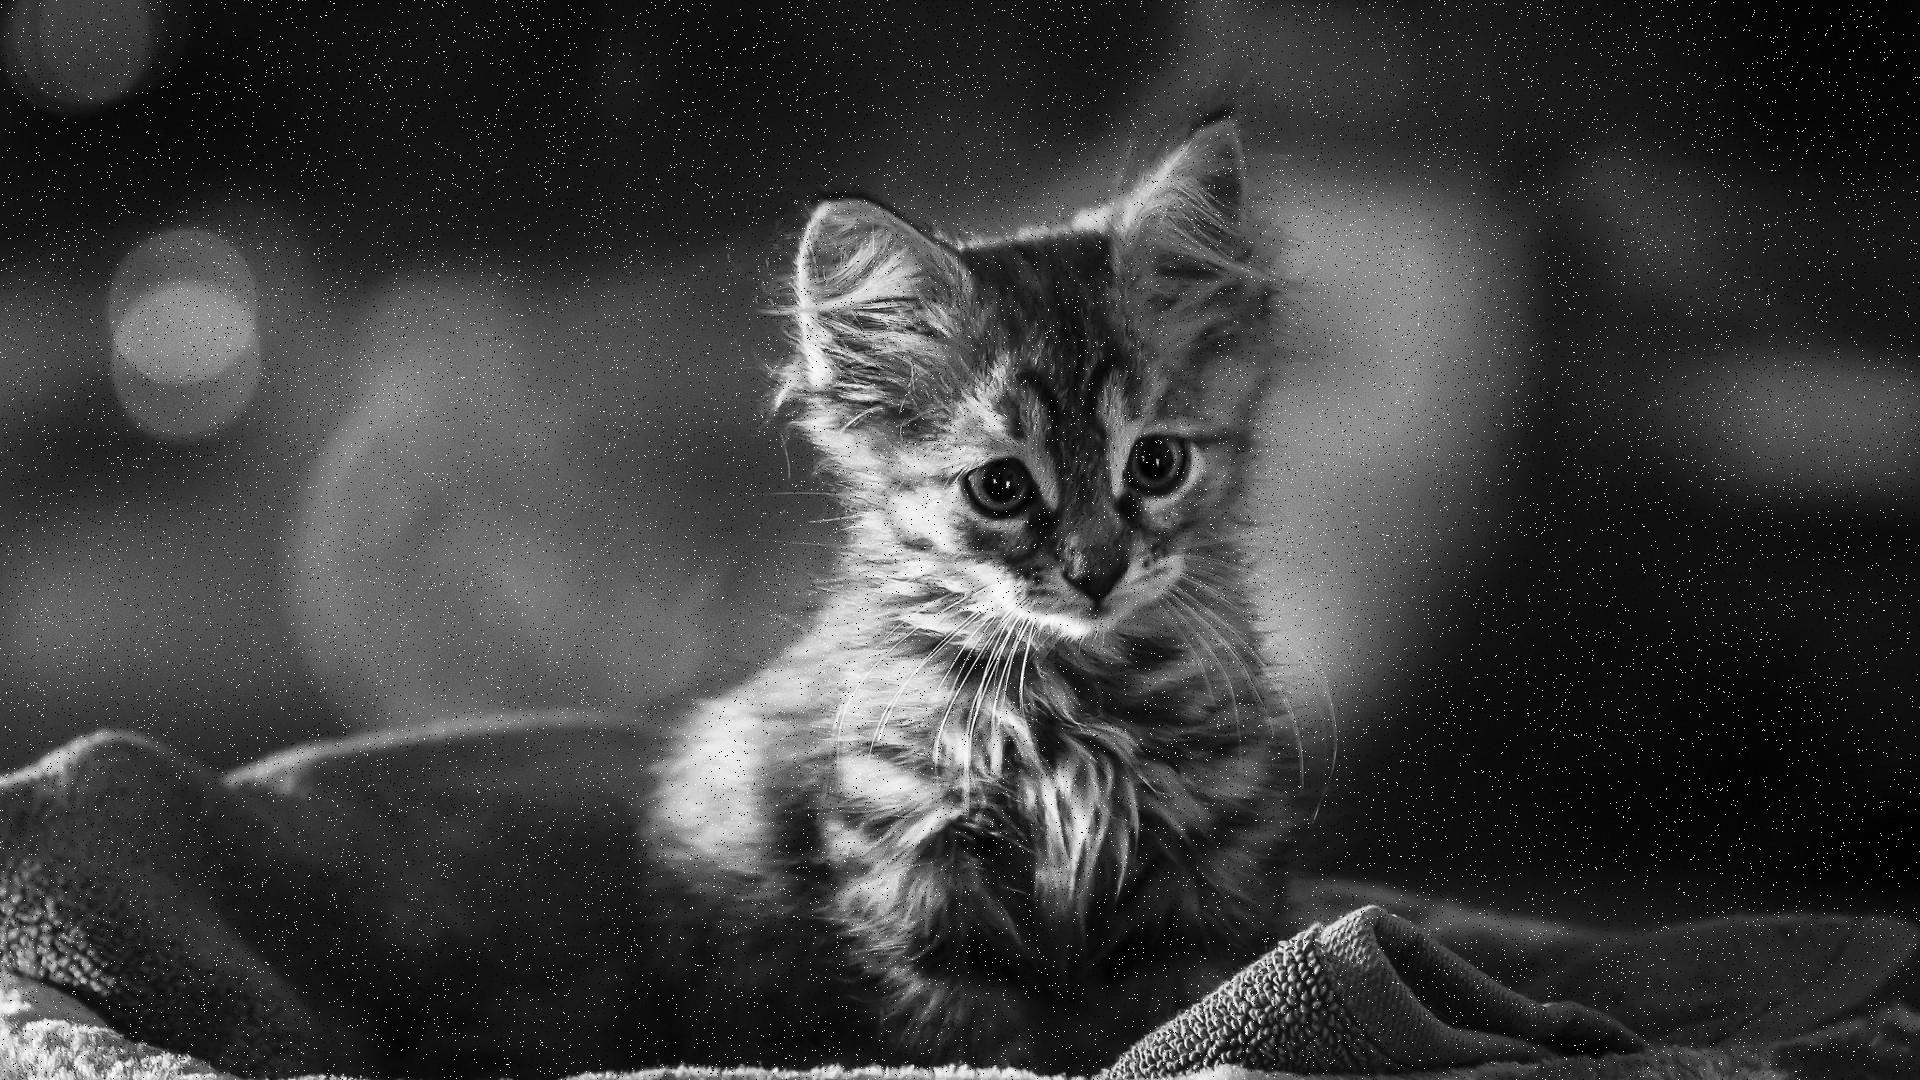
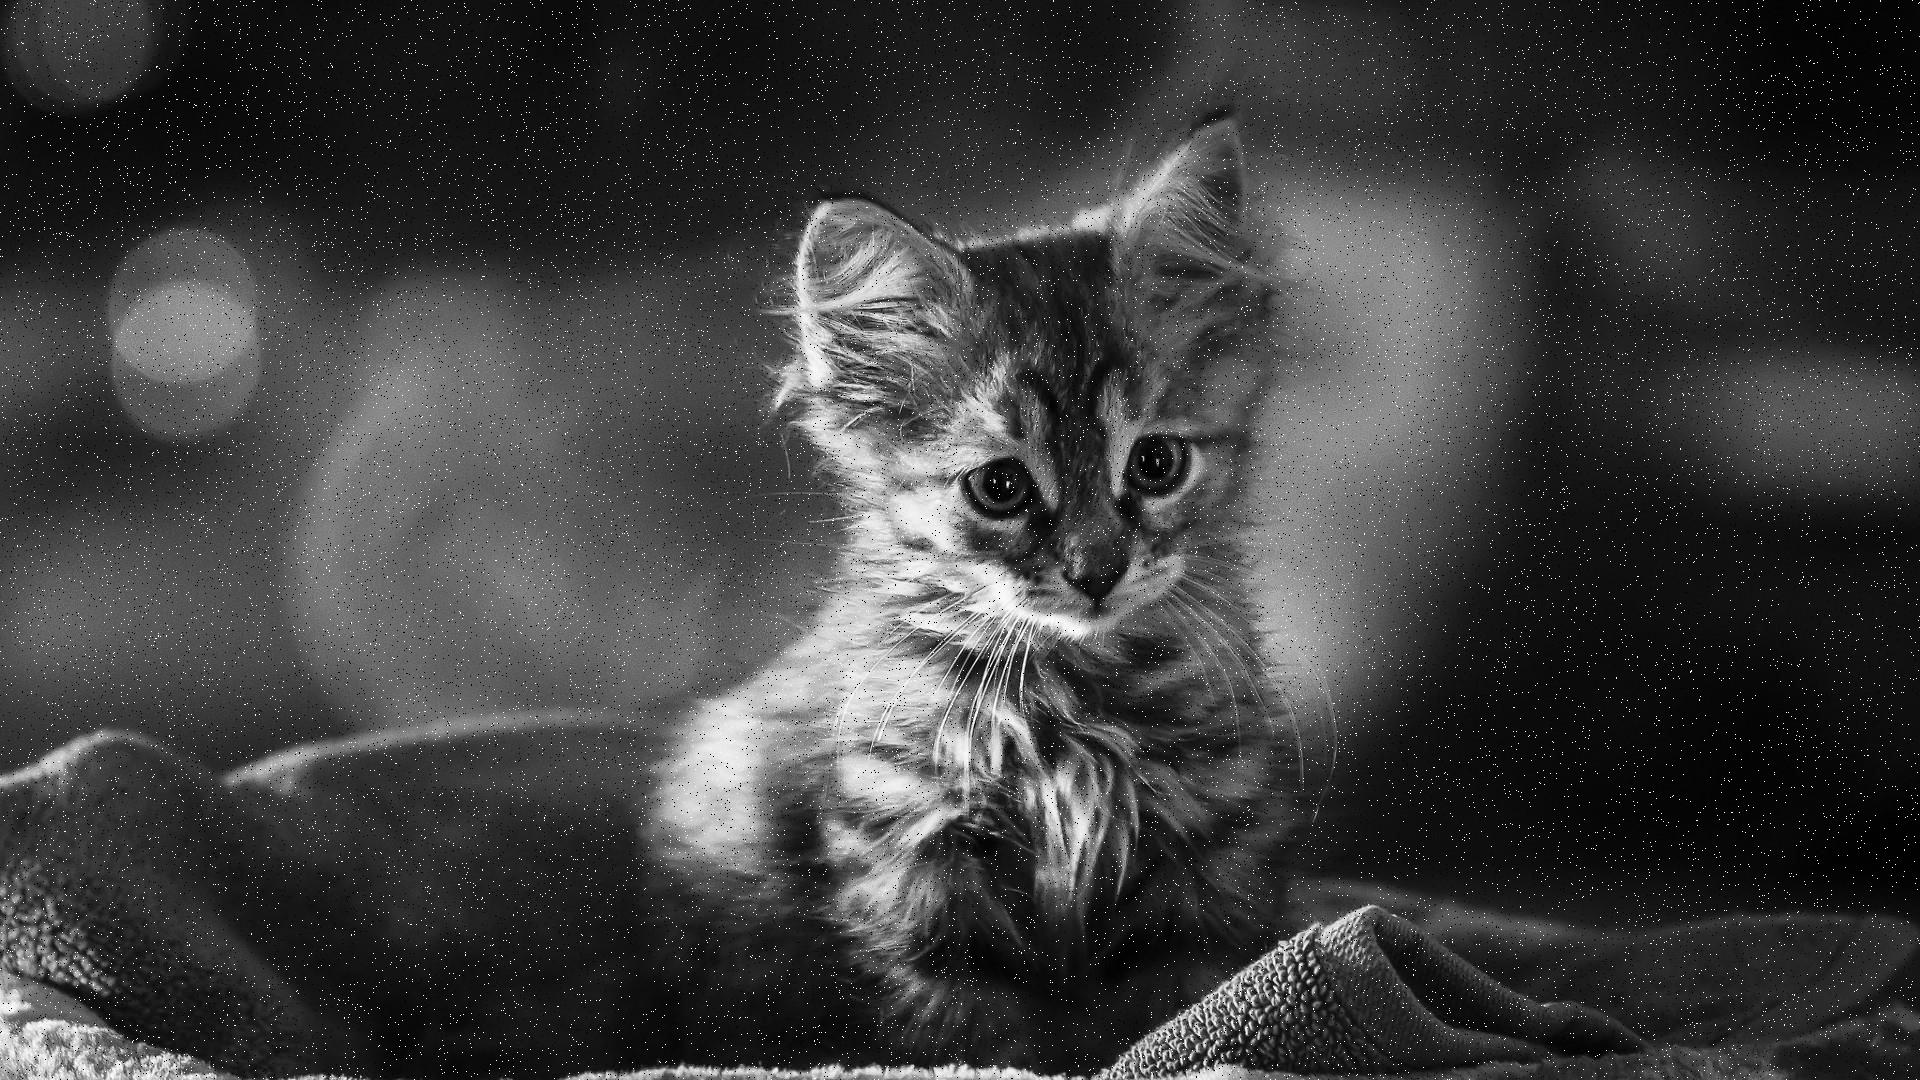
ex3 p1 almost done

diff --git a/src/ex3.py b/src/ex3.py
@@ -11,7 +11,8 @@ assets = script_location.parent.joinpath("../assets/")
 results = script_location.parent.joinpath("../results/")
 
 CAT = Image.open(assets.joinpath("cat.jpg"))
-
+RICE = Image.open(assets.joinpath("rice.jpg"))
+TEST = Image.open(assets.joinpath("testnoise.jpg"))
 # DOG = np.array(Image.open(assets.joinpath("dog.jpg")))
 # DOG = CAT.convert('L')
 # DOG = np.array(DOG)
@@ -38,6 +39,90 @@ def add_salt_and_pepper_noise(img, contamination_percentage):
     return i
 
 
-img = add_salt_and_pepper_noise(CAT, 0.1)
-img.save(results.joinpath('cat-salt_and_pepper.jpg'))
+def add_gaussian_noise(img):
+    i = img
+    i = np.array(i)
+    w, h, c = i.shape
+
+    noise = np.random.normal(0, 0.1**0.5, (w, h, c))
+    noise.reshape(w,h,c)
+    i = i + noise
+    return Image.fromarray(i.astype('uint8')).convert('L')
+
+def add_both_noises(img, sp):
+    img2 = img.copy()
+    img2 = add_gaussian_noise(img2)
+    img2 = add_salt_and_pepper_noise(img2, sp)
+    return img2
+
+def ftAlphaTrimmedMean(image):
+    # deep copy
+    img = image.copy()
+
+    # Get image height and width
+    height, width = image.shape
+
+    height = height-1
+    width = width-1
+
+    p = 0
+
+    # loop through
+    for i in tqdm(range(1, height)):
+        for j in range(1, width):
+            arr = []
+
+            p = image[i-1][j-1]
+            arr.append(p)
+
+            p = image[i-1][j]
+            arr.append(p)
+
+            p = image[i-1][j+1]
+            arr.append(p)
+
+            p = image[i][j-1]
+            arr.append(p)
+
+            p = image[i][j]
+            arr.append(p)
+
+            p = image[i][j+1]
+            arr.append(p)
+
+            p = image[i+1][j-1]
+            arr.append(p)
+
+            p = image[i+1][j]
+            arr.append(p)
+
+            p = image[i+1][j+1]
+            arr.append(p)
+
+            arr = np.sort(arr)
+
+            middle = int((len(arr)-1)/2)
+
+            total = 0
+
+            total += arr[middle-2]
+            total += arr[middle-1]
+            total += arr[middle]
+            total += arr[middle+1]
+            total += arr[middle+2]
+
+            total = int(total/5)
+
+            # set pixel value back to image
+            img[i][j] = total
+
+    return img
+
+
+img = add_both_noises(CAT, 0.1)
+img.save(results.joinpath('cat-noised.jpg'))
+
+img = ftAlphaTrimmedMean(np.array(img))
+img = Image.fromarray(img.astype(np.uint8))
+img.save(results.joinpath('filtered.jpg'))
 print()
